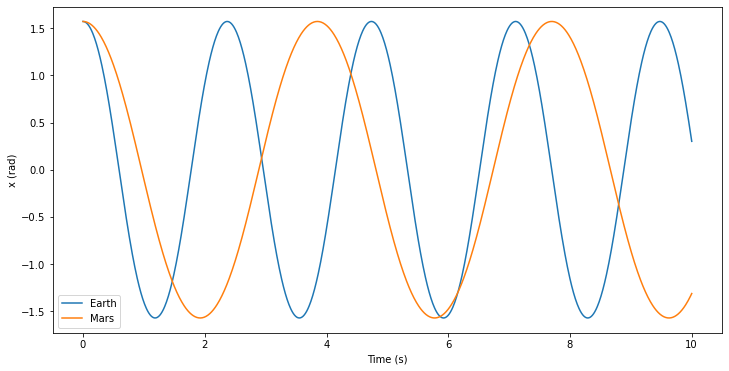
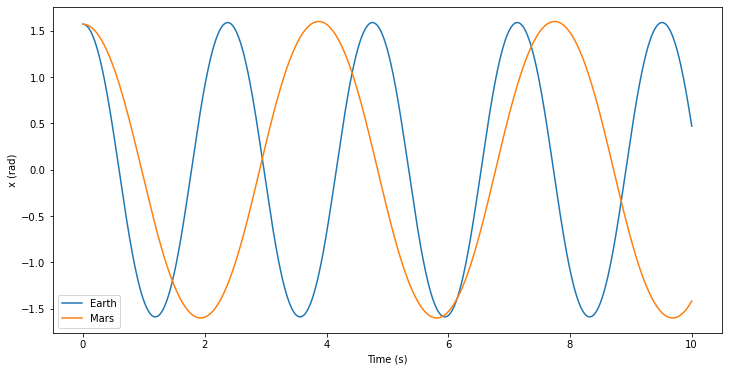
Update Sphinx documentation, commit a70c75dfaa40cd3ea6f748b4b9583d69c33cc509 [skip ci].

diff --git a/searchindex.js b/searchindex.js
@@ -1,1 +1,1 @@
-Search.setIndex({docnames:["advanced_tutorials","basic_tutorials","changelog","index","install","notebooks/Customising the adaptive integrator","notebooks/Dense output","notebooks/Long term stability of Trappist-1","notebooks/Non-autonomous systems","notebooks/ODEs with parameters","notebooks/The adaptive integrator","notebooks/The expression system","tut_taylor_method"],envversion:{"sphinx.domains.c":2,"sphinx.domains.changeset":1,"sphinx.domains.citation":1,"sphinx.domains.cpp":3,"sphinx.domains.index":1,"sphinx.domains.javascript":2,"sphinx.domains.math":2,"sphinx.domains.python":2,"sphinx.domains.rst":2,"sphinx.domains.std":2,sphinx:56},filenames:["advanced_tutorials.rst","basic_tutorials.rst","changelog.rst","index.md","install.rst","notebooks/Customising the adaptive integrator.ipynb","notebooks/Dense output.ipynb","notebooks/Long term stability of Trappist-1.ipynb","notebooks/Non-autonomous systems.ipynb","notebooks/ODEs with parameters.ipynb","notebooks/The adaptive integrator.ipynb","notebooks/The expression system.ipynb","tut_taylor_method.rst"],objects:{},objnames:{},objtypes:{},terms:{"0000000000000000":[5,8,9,10,11],"00000000e":6,"007070225695038143":10,"00750582":10,"00827833":10,"02256041":10,"02325783":10,"024398":10,"024999999997558964":5,"025":[5,10],"025000000000000001":[5,10],"025000000000002819":10,"02681336":10,"02845657":10,"03425164317259":6,"03542229":10,"03597685":10,"043996448369926382":10,"04484178":10,"04519961":10,"04981102":10,"04990399":10,"049999999999999843":10,"050000000000000003":[5,10],"050000000001312876":5,"05003035":10,"07142727":10,"07360369":10,"078442455470687983":10,"08767570e":6,"100":6,"1000":[8,9],"10000000000000000000000000000000008":11,"10000000000000000002":11,"1000000000000001":11,"11031762e":6,"11152037":10,"113":11,"11324639":10,"128":3,"14078016":10,"14188793":10,"14707456e":6,"15635952":10,"15674117":10,"16666667e":6,"200":8,"20207792808238706":10,"2021":3,"20212172864807668":10,"20213323505293765":10,"2021425243240425":10,"21312300047513288":10,"21605277478009474":10,"21813566576411725":10,"2181392923080563":10,"21818982934810385":10,"22063525e":6,"33333333e":6,"345":5,"38888889e":6,"47942554":6,"48015873e":6,"50521084e":6,"56192070e":6,"5707963267948966":9,"60590438e":6,"64716373e":6,"66666667e":6,"75573192e":6,"77947733e":6,"8000000000000007":9,"81145725e":6,"8500000000000001":8,"87758256":6,"98412698e":6,"abstract":11,"boolean":6,"case":[5,6,8,9,10],"class":[5,8,10],"default":[4,5,8,10],"final":[4,5,9],"float":[3,5,11],"function":[2,5,6,10,11,12],"hey\u00f3k\u021fa":3,"import":[4,5,6,7,8,9,10,11],"long":[0,3,5,8,11],"new":4,"public":2,"return":[6,10],"true":[5,6],"try":[5,6,10],"while":[5,8,10],For:[5,9],ODE:[5,6,8,9,10,11,12],ODEs:[1,3,8,10,11,12],One:6,That:[5,6,8,12],The:[1,3,4,5,6,7,8,9,12],There:[4,10],These:[8,10],With:8,__float128:11,abbrevi:8,abil:[3,12],abl:11,about:[4,6],abov:[10,11],abs:6,absolut:[5,6,10],acceler:9,access:[6,9],accomplish:11,accur:6,accuraci:[3,6,12],achiev:11,activ:5,actual:[4,9],adapt:[1,3,12],add:[2,4],addit:[2,4,8,10,11],addition:[4,6,11],advanc:3,after:[4,8,10],again:[6,8,9,10],agenc:3,aggress:3,aim:5,air:8,algebra:[11,12],algorithm:6,all:[5,8,12],alreadi:8,also:[5,9,10,11,12],altern:4,alwai:[6,10],ambigu:8,america:3,amount:[8,10],analysi:8,analyt:6,angl:9,ani:[4,6,11],anoth:[6,10,11],apart:10,appear:[8,12],appli:12,applic:12,appreci:6,approach:5,approxim:12,arbitrari:6,argument:[5,6,8,9,10],ari:11,aris:[5,10],arithmet:10,around:[3,12],arrai:[6,9,10,11],ask:6,assembl:12,ast:11,astronomi:3,author:3,automat:[3,10,11,12],autonom:[1,3],avail:[1,4,11],avoid:8,awar:6,back:[5,10],backward:10,bare:12,base:[3,4],basic:[3,11],batch:3,becaus:[6,8,9,10,11],been:5,befor:6,begin:[6,8,9,10],behaviour:[5,8],being:[9,10,11],belong:8,better:6,billion:3,binder:1,biscani:3,bit:[3,11],bleed:4,bluescarni:4,bob:8,bodi:5,boldsymbol:12,bone:12,boost:4,both:[3,10],branch:[4,5],build:4,built:6,call:[8,10],can:[1,4,5,6,8,9,10,11,12],cancel:5,capabl:[4,10,11],care:12,catastroph:5,caveat:6,chang:[5,8,9,10],changelog:[1,3],channel:4,channel_prior:4,chaotic:8,characterist:12,check:8,choic:12,clamp:10,clang:[4,11],clone:4,clown:3,cmake:4,cmake_build_typ:4,cmake_prefix_path:4,code:[4,5,12],coeffici:[2,6],column:6,com:4,come:[5,6,11],command:4,common:8,compact:12,compact_mod:5,compar:6,compens:5,compil:[3,4,5,11,12],complet:[8,12],complex:[8,11],compon:10,comput:[4,6,10,11,12],conceptu:12,conclud:6,concret:5,condit:[5,6,8,9,10,12],config:4,configur:4,consid:6,consist:5,constant:[9,11],construct:[5,6,8,9,11,12],consult:4,contact:4,contain:[6,9,10,12],content:[3,5],continu:6,contrarian:3,control:5,coordin:[6,10],copi:10,core:4,correctli:1,correspond:5,cos:[6,8,11],cost:[3,5,6],counterpart:11,coupl:6,cours:6,cpu:5,creat:[4,5,8,9,10,11],creation:5,cultur:3,cumbersom:12,current:[1,5,6,10],customis:[1,3],d_output:6,dakota:3,damp:8,dario:3,data:11,date:6,debug:4,decompos:12,deduc:10,deduct:12,defin:[8,11,12],definit:[5,8,10],degrad:5,delta_t:10,dens:[1,2,3,10],denser:10,depend:[3,8,11,12],deriv:[9,11,12],describ:10,desir:10,detail:[4,8],detect:[9,10],determin:11,develop:[1,4],differ:[5,6,8,11],differenti:[3,10,11,12],dimens:[5,8,9,10],directli:[6,9,10],directori:4,displai:8,distanc:11,dizzi:8,doc:2,document:4,doe:6,doing:6,don:9,done:12,doubl:[3,5,10,11],down:[9,12],download:4,drag:8,dynam:8,e_hist:9,each:[1,6],earlier:5,earth:9,easi:10,edg:4,effect:[8,12],effici:10,either:[5,9,10,11],element:5,elementari:[11,12],els:5,emphasis:11,emploi:5,empti:4,enabl:[5,6],end:[2,5,6,8,9,10],endpoint:6,ensur:[5,6,11],epoch:10,epsilon:[5,10],equal:5,equat:[3,10,12],equival:11,err_nf_stat:10,error:[4,6,10,11,12],especi:12,essenti:6,etc:4,euclidean:11,european:3,evalu:[5,6,12],even:5,eventu:6,everyth:5,evolut:[8,9],exact:6,exactli:11,exampl:[5,8,9,10,11],excurs:8,execut:[1,4],exhibit:8,exp:11,expans:12,expect:6,explicit:[8,12],explicitli:8,exponenti:11,expos:2,express:[1,3,8,12],extend:[3,11],extern:8,extra:6,extrem:12,fact:10,fail:1,failur:6,fairli:8,fall:6,far:8,fashion:3,faster:[5,10],featur:[1,3,6],fetch:6,few:[5,8,9,11],fifth:10,figsiz:[6,8,9],figur:[6,8,9],finit:[5,10],first:[5,6,9,10],fix:9,flag:[4,10],fledg:11,focus:8,follow:[4,11],forc:8,forg:4,form:[11,12],format:[10,11],former:10,forth:5,forward:10,frac:12,francesco:3,from:[2,3,5,6,8,9,10,11,12],full:[10,11],fulli:5,futur:11,gap:5,gcc:[4,11],gener:[4,5,6,8,11,12],get:3,git:4,github:4,given:12,global:4,good:[4,8,9],graphic:11,gravit:9,graviti:9,great:3,greater:5,greatli:5,grid:[6,8],guarante:6,had:10,halfwai:6,hand:[5,11,12],har:3,hardwar:11,harmon:6,has:[4,5],have:[5,8,10,12],help:[3,5],here:[5,8,11,12],hesit:4,heyoka:[1,2,4,5,6,7,8,9,10,11,12],heyoka_py_enable_ipo:4,heyoka_py_install_path:4,high:[3,11,12],high_accuraci:5,higher:8,highli:[5,8],highlight:6,hopefulli:10,horner:5,how:[4,5,6,8,9,10],howev:10,http:[4,7],hyperbol:11,icon:1,idea:[4,8],idiom:5,illustr:6,immedi:4,implement:[3,9,12],includ:3,incorrect:6,increas:6,inde:6,index:[9,10],indic:10,ineffici:12,infinit:5,infrastructur:[1,4],initi:[2,5,6,8,9,10,12],input:[6,10],inspect:10,instal:[3,11],instanc:10,instead:[4,5,9,10],institut:3,instruct:[3,4,6],integr:[1,3,6,8,9,12],interact:[1,10],interfac:10,intern:[6,11],interv:10,introduc:8,invent:8,invers:11,invoc:6,invok:[6,10],involv:11,issu:[4,5],its:[6,8,9,10,11],izzo:3,jester:3,just:[3,4,5,6,12],keep:6,kept:4,keyword:[5,8,9],kind:3,known:9,kutta:12,label:9,lakota:3,larg:[5,12],larger:[5,10],last:6,later:[4,9,10,11],latest:[1,4],latter:[9,10],launch:1,ldot:12,lead:[5,8],leaf:11,least:[2,5],left:[4,6,8,9,10,11,12],legend:9,less:5,lesssim:5,let:[5,6,8,9,10],librari:[2,3,4,10],licens:3,lifetim:10,like:4,limit:11,linear:8,link:4,linspac:[6,8,9],linux:4,list:6,littl:8,live:4,llvm:[3,12],load:[9,11],local:4,logarithm:11,logist:11,longdoubl:11,look:[1,4,8],loop:5,low:5,m_hist:9,machin:[3,5,6,10],magnitud:5,mai:1,main:[10,12],maintain:[3,4,5],make:[4,11],make_nbody_si:5,make_var:[5,6,8,9,10,11],manag:[4,10],mandatori:[4,10],mar:9,master:4,match:6,mathemat:11,mathrm:9,matplotlib:[6,8,9],matter:5,max:[3,10],max_delta_t:10,max_h:10,maximis:[5,10],maximum:10,mean:[5,9],memori:5,mention:5,method:[1,3,6,10],might:[1,6,8],min:10,min_h:10,mind:8,minimis:5,minimum:10,mkdir:4,mode:[3,10],modern:3,modul:[4,8],monoton:10,more:[4,5,9,10,11,12],most:1,motion:8,move:[3,9],mpf:11,mpl:3,mpmath:[4,11],msvc:4,much:[10,11],must:[4,10,11],name:8,natur:11,nbodi:5,necessari:[4,12],need:[4,6,10,11,12],never:8,next:[5,6],node:11,non:[1,3,5,10,11],normal:4,normalis:12,north:3,notabl:3,notat:11,note:[6,8,9,10,11],notebook:1,noth:6,notic:10,now:[2,5,6,8,9,10],nstep:10,num:10,number:[5,6,10],numer:[5,9,11,12],numpi:[4,5,6,8,9,10,11],object:[5,8,9,10],obtain:10,ode_si:9,off:4,offer:5,ole:9,onc:4,one:[5,6,9],onli:[1,4,6,11,12],onlin:1,open:4,oper:[10,11,12],opposit:3,opt:5,optim:[5,10,11,12],optimis:[4,5],option:[4,5,10],order:[4,5,6,8,9,10,11,12],ordinari:[3,12],org:7,oscil:6,osx:4,other:[5,6,10,12],our:5,out:10,outcom:10,output:[1,2,3,4,9,10],outsid:6,over:[3,5,6,8],overview:1,own:10,packag:3,page:[1,4],pair:10,par:9,paramet:[1,3,6,10,11],part:6,particl:5,particular:11,particularli:4,pass:[6,8,10],past:6,path:4,peculiar:6,pendulum:[8,9,10],peopl:3,per:5,perform:[3,5,10,11,12],period:8,pick:6,pictur:8,placehold:8,plain:3,planck:3,platform:11,pleas:[1,4],plot:[6,8,9],plt:[6,8,9],plu:[6,10],point:[3,5,6,10,11],polynomi:[5,6,12],popular:12,posit:8,possibl:[9,10,11],power:3,powi:2,practic:5,prec:11,precis:[3,4,5,6,10,11,12],prepend:8,prevent:[5,6],previou:[5,6,11],prime:[6,8,9,10],print:[9,10,11],problem:5,proce:4,process:[5,6,12],processor:11,produc:[6,12],program:5,prone:12,propag:[8,12],propagate_:10,propagate_for:10,propagate_grid:[2,10],propagate_until:[5,8,9,10],properti:6,provid:[1,4,5,6,10,11,12],pybind11:4,pylab:[6,8,9],python:[3,4,12],quadrupl:[4,11],qualit:8,quantifi:5,rad:9,rang:6,rcparam:[6,8,9],react:3,read:[6,8,10],readi:[4,6],reason:10,recent:4,record:6,reduc:5,refer:[1,4,6],regard:6,regular:[10,12],regularli:4,rel:[5,6],relat:10,releas:[1,2,3,4],reli:12,remaind:5,rememb:6,render:5,repeatedli:10,replac:5,report:4,repres:[5,8,9,10,11,12],represent:[11,12],requir:[2,4,10,11,12],reset:[9,10],respect:[5,6,9,10],respons:6,result:[5,6,10],rewritten:12,rich:8,right:[6,8,9,10,11,12],rocket:1,root:11,row:6,rule:[5,12],run:4,run_test_suit:4,rung:12,runtim:[4,5,11],sacr:3,sake:8,same:[5,10],satirist:3,saw:11,scalar:10,screen:[9,10],search:4,second:[6,10],section:[5,8,11],see:[6,7,8,9,10],seem:8,select:10,self:12,semilog:6,sens:5,sensibl:10,sensit:[8,11],sequenc:12,seri:[5,6,12],session:4,set:[3,4,5,6,9,10,11,12],settl:8,setup:4,should:[4,10],show:[5,9],shown:11,side:[11,12],sigmoid:11,sim:[5,6,10],simd:3,similar:12,similarli:10,simpl:[6,10,11,12],simplif:11,simplifi:11,sin:[5,6,8,9,10],sioux:3,site:4,size:[10,12],slight:5,slowli:9,small:[8,12],softwar:11,solut:[5,6,12],solv:12,some:[1,6,11],sourc:3,space:[3,10],speak:3,special:[8,10],specif:[5,8,9,11,12],specifi:[5,6,8,9,10],spice:8,sqrt:11,squar:11,stabil:[0,3],stabl:[1,8],stage:[5,9,11],standard:11,start:[6,9,12],state:[4,5,6,8,9,12],statu:10,steadili:6,step:[6,10,12],step_backward:10,stepper:12,still:6,stop:10,store:[2,6,10],stress:6,strict:4,strive:5,subexpress:12,success:[6,10],successfulli:4,suit:4,sum_:12,summat:5,superflu:8,suppli:11,support:[2,3,4,6,11],sure:4,surfac:9,swing:9,symbol:[5,8,9,10,11,12],syntax:[9,10,11],synthesis:12,sys:[5,8,10],system:[1,3,4,5,6,7,9,10,12],t_0:12,t_1:12,t_grid:[6,8,9],ta_default:5,tailor:12,take:[6,8,10,12],taken:[6,10],target:4,task:12,taylor:[1,2,3,5,6,8,9,10],taylor_adapt:[5,6,8,9,10],taylor_outcom:[6,10],team:4,technic:10,techniqu:[3,5],ten:3,term:[0,3,5,8],test:4,than:[5,10],thank:[1,4],thei:[4,9,10],them:[3,10],thi:[2,4,5,6,8,9,10,12],thing:[6,8],thousand:5,through:6,thu:[1,4,5,6,8,10,12],time:[3,4,5,6,8,9,12],time_limit:10,times10:10,timestep:[2,3,5,6,12],timestepp:5,tol:5,toler:[6,10],toolchain:11,top:1,total:[5,10],tradit:5,trappist:[0,3],tree:[4,11],trigonometr:11,trim:12,troubl:4,truncat:[5,12],tupl:10,tutori:[3,10],two:6,type:[3,4,5,9,11],typic:10,ultim:5,under:3,underli:10,unit:[6,8,9,10],unix:4,unless:10,unlik:12,unpack:4,unreleas:3,unrol:5,until:10,updat:[4,5,10],update_d_output:6,usabl:[5,12],usag:[5,10],use:[1,4,5,6,10],used:[5,6,8,10,12],useful:4,user:[4,5,6,10,11,12],uses:[5,10],using:[4,5,8,9,10,11],usual:[4,8],util:5,valu:[5,6,8,9,10,11,12],vari:[8,11],variabl:[4,5,6,8,9,10,11],varieti:5,variou:[2,4],vector:[5,6,10],veloc:8,veri:[4,5,6,11],verifi:3,version:[1,2,4],vertic:8,via:[3,4,5,6,8,9,10,11,12],wai:[5,10,11],wall:5,want:[4,9],were:[6,10],when:[4,5,8,9,10,11],where:[5,6,9,10,12],wherea:11,which:[4,5,6,8,9,10,11,12],who:3,whose:[6,12],wider:5,wiki:7,wikipedia:7,window:4,within:6,without:4,won:10,word:[5,6],work:[4,10,11],workflow:4,would:10,write:[9,10],write_tc:6,x86:11,x_d_out:6,x_hist:8,xlabel:[6,8,9],yet:1,ylabel:[6,8,9],you:[4,6,9,10],your:4,zero:[3,5,6,8,9,10]},titles:["Advanced tutorials","Basic tutorials","Changelog","heyoka.py","Installation","Customising the adaptive integrator","Dense output","Long term stability of Trappist-1","Non-autonomous systems","ODEs with parameters","The adaptive integrator","The expression system","Taylor\u2019s method"],titleterms:{"2021":2,"long":7,"new":2,ODEs:9,The:[10,11],access:10,accuraci:5,adapt:[5,10],advanc:0,autonom:8,basic:1,chang:2,changelog:2,compact:5,conda:4,construct:10,customis:5,dens:6,depend:4,error:5,express:11,from:4,get:4,grid:10,help:4,heyoka:3,high:5,instal:4,integr:[5,10],limit:10,method:12,mode:5,non:8,output:6,over:10,packag:4,paramet:9,propag:10,singl:10,sourc:4,stabil:7,state:10,system:[8,11],taylor:12,term:7,time:10,timestep:10,toler:5,trappist:7,tutori:[0,1],unreleas:2,verifi:4}})
+Search.setIndex({docnames:["advanced_tutorials","basic_tutorials","changelog","index","install","notebooks/Customising the adaptive integrator","notebooks/Dense output","notebooks/Long term stability of Trappist-1","notebooks/Non-autonomous systems","notebooks/ODEs with parameters","notebooks/The adaptive integrator","notebooks/The expression system","tut_taylor_method"],envversion:{"sphinx.domains.c":2,"sphinx.domains.changeset":1,"sphinx.domains.citation":1,"sphinx.domains.cpp":3,"sphinx.domains.index":1,"sphinx.domains.javascript":2,"sphinx.domains.math":2,"sphinx.domains.python":2,"sphinx.domains.rst":2,"sphinx.domains.std":2,sphinx:56},filenames:["advanced_tutorials.rst","basic_tutorials.rst","changelog.rst","index.md","install.rst","notebooks/Customising the adaptive integrator.ipynb","notebooks/Dense output.ipynb","notebooks/Long term stability of Trappist-1.ipynb","notebooks/Non-autonomous systems.ipynb","notebooks/ODEs with parameters.ipynb","notebooks/The adaptive integrator.ipynb","notebooks/The expression system.ipynb","tut_taylor_method.rst"],objects:{},objnames:{},objtypes:{},terms:{"0000000000000000":[5,8,9,10,11],"00000000e":6,"007070225695038143":10,"00750582":10,"00827833":10,"02256041":10,"02325783":10,"024398":10,"024999999997558964":5,"025":[5,10],"025000000000000001":[5,10],"025000000000002819":10,"02681336":10,"02845657":10,"03425164317259":6,"03542229":10,"03597685":10,"043996448369926382":10,"04484178":10,"04519961":10,"04981102":10,"04990399":10,"049999999999999843":10,"050000000000000003":[5,10],"050000000001312876":5,"05003035":10,"07142727":10,"07360369":10,"078442455470687983":10,"08767570e":6,"100":6,"1000":[8,9],"10000000000000000000000000000000008":11,"10000000000000000002":11,"1000000000000001":11,"11031762e":6,"11152037":10,"113":11,"11324639":10,"128":3,"14078016":10,"14188793":10,"14707456e":6,"15635952":10,"15674117":10,"16666667e":6,"200":8,"20207792808238706":10,"2021":3,"20212172864807668":10,"20213323505293765":10,"2021425243240425":10,"21312300047513288":10,"21605277478009474":10,"21813566576411725":10,"2181392923080563":10,"21818982934810385":10,"22063525e":6,"33333333e":6,"351":5,"352":5,"38888889e":6,"47942554":6,"48015873e":6,"50521084e":6,"56192070e":6,"5707963267948966":9,"60590438e":6,"64716373e":6,"66666667e":6,"75573192e":6,"77947733e":6,"8000000000000007":9,"81145725e":6,"8500000000000001":8,"87758256":6,"98412698e":6,"abstract":11,"boolean":6,"case":[5,6,8,9,10],"class":[5,8,10],"default":[4,5,8,10],"final":[4,5,9],"float":[3,5,11],"function":[2,5,6,10,11,12],"hey\u00f3k\u021fa":3,"import":[4,5,6,7,8,9,10,11],"long":[0,3,5,8,11],"new":4,"public":2,"return":[6,10],"true":[5,6],"try":[5,6,10],"while":[5,8,10],For:[5,9],ODE:[5,6,8,9,10,11,12],ODEs:[1,3,8,10,11,12],One:6,That:[5,6,8,12],The:[1,3,4,5,6,7,8,9,12],There:[4,10],These:[8,10],With:8,__float128:11,abbrevi:8,abil:[3,12],abl:11,about:[4,6],abov:[10,11],abs:6,absolut:[5,6,10],acceler:9,access:[6,9],accomplish:11,accur:6,accuraci:[3,6,12],achiev:11,activ:5,actual:[4,9],adapt:[1,3,12],add:[2,4],addit:[2,4,8,10,11],addition:[4,6,11],advanc:3,after:[4,8,10],again:[6,8,9,10],agenc:3,aggress:3,aim:5,air:8,algebra:[11,12],algorithm:6,all:[5,8,12],alreadi:8,also:[5,9,10,11,12],altern:4,alwai:[6,10],ambigu:8,america:3,amount:[8,10],analysi:8,analyt:6,angl:9,ani:[4,6,11],anoth:[6,10,11],apart:10,appear:[8,12],appli:12,applic:12,appreci:6,approach:5,approxim:12,arbitrari:6,argument:[5,6,8,9,10],ari:11,aris:[5,10],arithmet:10,around:[3,12],arrai:[6,9,10,11],ask:6,assembl:12,ast:11,astronomi:3,author:3,automat:[3,10,11,12],autonom:[1,3],avail:[1,4,11],avoid:8,awar:6,back:[5,10],backward:10,bare:12,base:[3,4],basic:[3,11],batch:3,becaus:[6,8,9,10,11],been:5,befor:6,begin:[6,8,9,10],behaviour:[5,8],being:[9,10,11],belong:8,better:6,billion:3,binder:1,biscani:3,bit:[3,11],bleed:4,bluescarni:4,bob:8,bodi:5,boldsymbol:12,bone:12,boost:4,both:[3,10],branch:[4,5],build:4,built:6,call:[8,10],can:[1,4,5,6,8,9,10,11,12],cancel:5,capabl:[4,10,11],care:12,catastroph:5,caveat:6,chang:[5,8,9,10],changelog:[1,3],channel:4,channel_prior:4,chaotic:8,characterist:12,check:8,choic:12,clamp:10,clang:[4,11],clone:4,clown:3,cmake:4,cmake_build_typ:4,cmake_prefix_path:4,code:[4,5,12],coeffici:[2,6],column:6,com:4,come:[5,6,11],command:4,common:8,compact:12,compact_mod:5,compar:6,compens:5,compil:[3,4,5,11,12],complet:[8,12],complex:[8,11],compon:10,comput:[4,6,10,11,12],conceptu:12,conclud:6,concret:5,condit:[5,6,8,9,10,12],config:4,configur:4,consid:6,consist:5,constant:[9,11],construct:[5,6,8,9,11,12],consult:4,contact:4,contain:[6,9,10,12],content:[3,5],continu:6,contrarian:3,control:5,coordin:[6,10],copi:10,core:4,correctli:1,correspond:5,cos:[6,8,11],cost:[3,5,6],counterpart:11,coupl:6,cours:6,cpu:5,creat:[4,5,8,9,10,11],creation:5,cultur:3,cumbersom:12,current:[1,5,6,10],customis:[1,3],d_output:6,dakota:3,damp:8,dario:3,data:11,date:6,debug:4,decompos:12,deduc:10,deduct:12,defin:[8,11,12],definit:[5,8,10],degrad:5,delta_t:10,dens:[1,2,3,10],denser:10,depend:[3,8,11,12],deriv:[9,11,12],describ:10,desir:10,detail:[4,8],detect:[9,10],determin:11,develop:[1,4],differ:[5,6,8,11],differenti:[3,10,11,12],dimens:[5,8,9,10],directli:[6,9,10],directori:4,displai:8,distanc:11,dizzi:8,doc:2,document:4,doe:6,doing:6,don:9,done:12,doubl:[3,5,10,11],down:[9,12],download:4,drag:8,dynam:8,e_hist:9,each:[1,6],earlier:5,earth:9,easi:10,edg:4,effect:[8,12],effici:10,either:[5,9,10,11],element:5,elementari:[11,12],els:5,emphasis:11,emploi:5,empti:4,enabl:[5,6],end:[2,5,6,8,9,10],endpoint:6,ensur:[5,6,11],epoch:10,epsilon:[5,10],equal:5,equat:[3,10,12],equival:11,err_nf_stat:10,error:[4,6,10,11,12],especi:12,essenti:6,etc:4,euclidean:11,european:3,evalu:[5,6,12],even:5,eventu:6,everyth:5,evolut:[8,9],exact:6,exactli:11,exampl:[5,8,9,10,11],excurs:8,execut:[1,4],exhibit:8,exp:11,expans:12,expect:6,explicit:[8,12],explicitli:8,exponenti:11,expos:2,express:[1,3,8,12],extend:[3,11],extern:8,extra:6,extrem:12,fact:10,fail:1,failur:6,fairli:8,fall:6,far:8,fashion:3,faster:[5,10],featur:[1,3,6],fetch:6,few:[5,8,9,11],fifth:10,figsiz:[6,8,9],figur:[6,8,9],finit:[5,10],first:[5,6,9,10],fix:9,flag:[4,10],fledg:11,focus:8,follow:[4,11],forc:8,forg:4,form:[11,12],format:[10,11],former:10,forth:5,forward:10,frac:12,francesco:3,from:[2,3,5,6,8,9,10,11,12],full:[10,11],fulli:5,futur:11,gap:5,gcc:[4,11],gener:[4,5,6,8,11,12],get:3,git:4,github:4,given:12,global:4,good:[4,8,9],graphic:11,gravit:9,graviti:9,great:3,greater:5,greatli:5,grid:[6,8],guarante:6,had:10,halfwai:6,hand:[5,11,12],har:3,hardwar:11,harmon:6,has:[4,5],have:[5,8,10,12],help:[3,5],here:[5,8,11,12],hesit:4,heyoka:[1,2,4,5,6,7,8,9,10,11,12],heyoka_py_enable_ipo:4,heyoka_py_install_path:4,high:[3,11,12],high_accuraci:5,higher:8,highli:[5,8],highlight:6,hopefulli:10,horner:5,how:[4,5,6,8,9,10],howev:10,http:[4,7],hyperbol:11,icon:1,idea:[4,8],idiom:5,illustr:6,immedi:4,implement:[3,9,12],includ:3,incorrect:6,increas:6,inde:6,index:[9,10],indic:10,ineffici:12,infinit:5,infrastructur:[1,4],initi:[2,5,6,8,9,10,12],input:[6,10],inspect:10,instal:[3,11],instanc:10,instead:[4,5,9,10],institut:3,instruct:[3,4,6],integr:[1,3,6,8,9,12],interact:[1,10],interfac:10,intern:[6,11],interv:10,introduc:8,invent:8,invers:11,invoc:6,invok:[6,10],involv:11,issu:[4,5],its:[6,8,9,10,11],izzo:3,jester:3,just:[3,4,5,6,12],keep:6,kept:4,keyword:[5,8,9],kind:3,known:9,kutta:12,label:9,lakota:3,larg:[5,12],larger:[5,10],last:6,later:[4,9,10,11],latest:[1,4],latter:[9,10],launch:1,ldot:12,lead:[5,8],leaf:11,least:[2,5],left:[4,6,8,9,10,11,12],legend:9,less:5,lesssim:5,let:[5,6,8,9,10],librari:[2,3,4,10],licens:3,lifetim:10,like:4,limit:11,linear:8,link:4,linspac:[6,8,9],linux:4,list:6,littl:8,live:4,llvm:[3,12],load:[9,11],local:4,logarithm:11,logist:11,longdoubl:11,look:[1,4,8],loop:5,low:5,m_hist:9,machin:[3,5,6,10],magnitud:5,mai:1,main:[10,12],maintain:[3,4,5],make:[4,11],make_nbody_si:5,make_var:[5,6,8,9,10,11],manag:[4,10],mandatori:[4,10],mar:9,master:4,match:6,mathemat:11,mathrm:9,matplotlib:[6,8,9],matter:5,max:[3,10],max_delta_t:10,max_h:10,maximis:[5,10],maximum:10,mean:[5,9],memori:5,mention:5,method:[1,3,6,10],might:[1,6,8],min:10,min_h:10,mind:8,minimis:5,minimum:10,mkdir:4,mode:[3,10],modern:3,modul:[4,8],monoton:10,more:[4,5,9,10,11,12],most:1,motion:8,move:[3,9],mpf:11,mpl:3,mpmath:[4,11],msvc:4,much:[10,11],must:[4,10,11],name:8,natur:11,nbodi:5,necessari:[4,12],need:[4,6,10,11,12],never:8,next:[5,6],node:11,non:[1,3,5,10,11],normal:4,normalis:12,north:3,notabl:3,notat:11,note:[6,8,9,10,11],notebook:1,noth:6,notic:10,now:[2,5,6,8,9,10],nstep:10,num:10,number:[5,6,10],numer:[5,9,11,12],numpi:[4,5,6,8,9,10,11],object:[5,8,9,10],obtain:10,ode_si:9,off:4,offer:5,ole:9,onc:4,one:[5,6,9],onli:[1,4,6,11,12],onlin:1,open:4,oper:[10,11,12],opposit:3,opt:5,optim:[5,10,11,12],optimis:[4,5],option:[4,5,10],order:[4,5,6,8,9,10,11,12],ordinari:[3,12],org:7,oscil:6,osx:4,other:[5,6,10,12],our:5,out:10,outcom:10,output:[1,2,3,4,9,10],outsid:6,over:[3,5,6,8],overview:1,own:10,packag:3,page:[1,4],pair:10,par:9,paramet:[1,3,6,10,11],part:6,particl:5,particular:11,particularli:4,pass:[6,8,10],past:6,path:4,peculiar:6,pendulum:[8,9,10],peopl:3,per:5,perform:[3,5,10,11,12],period:8,pick:6,pictur:8,placehold:8,plain:3,planck:3,platform:11,pleas:[1,4],plot:[6,8,9],plt:[6,8,9],plu:[6,10],point:[3,5,6,10,11],polynomi:[5,6,12],popular:12,posit:8,possibl:[9,10,11],power:3,powi:2,practic:5,prec:11,precis:[3,4,5,6,10,11,12],prepend:8,prevent:[5,6],previou:[5,6,11],prime:[6,8,9,10],print:[9,10,11],problem:5,proce:4,process:[5,6,12],processor:11,produc:[6,12],program:5,prone:12,propag:[8,12],propagate_:10,propagate_for:10,propagate_grid:[2,8,9,10],propagate_until:[5,10],properti:6,provid:[1,4,5,6,10,11,12],pybind11:4,pylab:[6,8,9],python:[3,4,12],quadrupl:[4,11],qualit:8,quantifi:5,rad:9,rang:6,rcparam:[6,8,9],react:3,read:[6,8,10],readi:[4,6],reason:10,recent:4,record:6,reduc:5,refer:[1,4,6],regard:6,regular:[10,12],regularli:4,rel:[5,6],relat:10,releas:[1,2,3,4],reli:12,remaind:5,rememb:6,render:5,repeatedli:10,replac:5,report:4,repres:[5,8,9,10,11,12],represent:[11,12],requir:[2,4,10,11,12],reset:[9,10],respect:[5,6,9,10],respons:6,result:[5,6,10],rewritten:12,rich:8,right:[6,8,9,10,11,12],rocket:1,root:11,row:6,rule:[5,12],run:4,run_test_suit:4,rung:12,runtim:[4,5,11],sacr:3,sake:8,same:[5,10],satirist:3,saw:11,scalar:10,screen:[9,10],search:4,second:[6,10],section:[5,8,11],see:[6,7,8,9,10],seem:8,select:10,self:12,semilog:6,sens:5,sensibl:10,sensit:[8,11],sequenc:12,seri:[5,6,12],session:4,set:[3,4,5,6,9,10,11,12],settl:8,setup:4,should:[4,10],show:[5,9],shown:11,side:[11,12],sigmoid:11,sim:[5,6,10],simd:3,similar:12,similarli:10,simpl:[6,10,11,12],simplif:11,simplifi:11,sin:[5,6,8,9,10],sioux:3,site:4,size:[10,12],slight:5,slowli:9,small:[8,12],softwar:11,solut:[5,6,12],solv:12,some:[1,6,11],sourc:3,space:[3,10],speak:3,special:[8,10],specif:[5,8,9,11,12],specifi:[5,6,8,9,10],spice:8,sqrt:11,squar:11,stabil:[0,3],stabl:[1,8],stage:[5,9,11],standard:11,start:[6,9,12],state:[4,5,6,8,9,12],statu:10,steadili:6,step:[6,10,12],step_backward:10,stepper:12,still:6,stop:10,store:[2,6,10],stress:6,strict:4,strive:5,subexpress:12,success:[6,10],successfulli:4,suit:4,sum_:12,summat:5,superflu:8,suppli:11,support:[2,3,4,6,11],sure:4,surfac:9,swing:9,symbol:[5,8,9,10,11,12],syntax:[9,10,11],synthesis:12,sys:[5,8,10],system:[1,3,4,5,6,7,9,10,12],t_0:12,t_1:12,t_grid:[6,8,9],ta_default:5,tailor:12,take:[6,8,10,12],taken:[6,10],target:4,task:12,taylor:[1,2,3,5,6,8,9,10],taylor_adapt:[5,6,8,9,10],taylor_outcom:[6,10],team:4,technic:10,techniqu:[3,5],ten:3,term:[0,3,5,8],test:4,than:[5,10],thank:[1,4],thei:[4,9,10],them:[3,10],thi:[2,4,5,6,8,9,10,12],thing:[6,8],thousand:5,through:6,thu:[1,4,5,6,8,10,12],time:[3,4,5,6,8,9,12],time_limit:10,times10:10,timestep:[2,3,5,6,12],timestepp:5,tol:5,toler:[6,10],toolchain:11,top:1,total:[5,10],tradit:5,trappist:[0,3],tree:[4,11],trigonometr:11,trim:12,troubl:4,truncat:[5,12],tupl:10,tutori:[3,10],two:6,type:[3,4,5,9,11],typic:10,ultim:5,under:3,underli:10,unit:[6,8,9,10],unix:4,unless:10,unlik:12,unpack:4,unreleas:3,unrol:5,until:10,updat:[4,5,10],update_d_output:6,usabl:[5,12],usag:[5,10],use:[1,4,5,6,10],used:[5,6,8,10,12],useful:4,user:[4,5,6,10,11,12],uses:[5,10],using:[4,5,8,9,10,11],usual:[4,8],util:5,valu:[5,6,8,9,10,11,12],vari:[8,11],variabl:[4,5,6,8,9,10,11],varieti:5,variou:[2,4],vector:[5,6,10],veloc:8,veri:[4,5,6,11],verifi:3,version:[1,2,4],vertic:8,via:[3,4,5,6,8,9,10,11,12],wai:[5,10,11],wall:5,want:[4,9],were:[6,10],when:[4,5,8,9,10,11],where:[5,6,9,10,12],wherea:11,which:[4,5,6,8,9,10,11,12],who:3,whose:[6,12],wider:5,wiki:7,wikipedia:7,window:4,within:6,without:4,won:10,word:[5,6],work:[4,10,11],workflow:4,would:10,write:[9,10],write_tc:6,x86:11,x_d_out:6,x_hist:8,xlabel:[6,8,9],yet:1,ylabel:[6,8,9],you:[4,6,9,10],your:4,zero:[3,5,6,8,9,10]},titles:["Advanced tutorials","Basic tutorials","Changelog","heyoka.py","Installation","Customising the adaptive integrator","Dense output","Long term stability of Trappist-1","Non-autonomous systems","ODEs with parameters","The adaptive integrator","The expression system","Taylor\u2019s method"],titleterms:{"2021":2,"long":7,"new":2,ODEs:9,The:[10,11],access:10,accuraci:5,adapt:[5,10],advanc:0,autonom:8,basic:1,chang:2,changelog:2,compact:5,conda:4,construct:10,customis:5,dens:6,depend:4,error:5,express:11,from:4,get:4,grid:10,help:4,heyoka:3,high:5,instal:4,integr:[5,10],limit:10,method:12,mode:5,non:8,output:6,over:10,packag:4,paramet:9,propag:10,singl:10,sourc:4,stabil:7,state:10,system:[8,11],taylor:12,term:7,time:10,timestep:10,toler:5,trappist:7,tutori:[0,1],unreleas:2,verifi:4}})

diff --git a/notebooks/ODEs with parameters.html b/notebooks/ODEs with parameters.html
@@ -355,7 +355,7 @@ Parameters  : [9.8000000000000007]
 <div class="cell docutils container">
 <div class="cell_input docutils container">
 <div class="highlight-ipython3 notranslate"><div class="highlight"><pre><span></span><span class="n">t_grid</span> <span class="o">=</span> <span class="n">np</span><span class="o">.</span><span class="n">linspace</span><span class="p">(</span><span class="mi">0</span><span class="p">,</span><span class="mi">10</span><span class="p">,</span><span class="mi">1000</span><span class="p">)</span>
-<span class="n">e_hist</span> <span class="o">=</span> <span class="p">[(</span><span class="n">ta</span><span class="o">.</span><span class="n">propagate_until</span><span class="p">(</span><span class="n">_</span><span class="p">),</span> <span class="n">ta</span><span class="o">.</span><span class="n">state</span><span class="p">[</span><span class="mi">0</span><span class="p">])[</span><span class="mi">1</span><span class="p">]</span> <span class="k">for</span> <span class="n">_</span> <span class="ow">in</span> <span class="n">t_grid</span><span class="p">]</span>
+<span class="n">e_hist</span> <span class="o">=</span> <span class="n">ta</span><span class="o">.</span><span class="n">propagate_grid</span><span class="p">(</span><span class="n">t_grid</span><span class="p">)[</span><span class="mi">4</span><span class="p">][:,</span><span class="mi">0</span><span class="p">]</span>
 </pre></div>
 </div>
 </div>
@@ -371,7 +371,7 @@ Parameters  : [9.8000000000000007]
 <span class="n">ta</span><span class="o">.</span><span class="n">pars</span><span class="p">[</span><span class="mi">0</span><span class="p">]</span> <span class="o">=</span> <span class="mf">3.71</span>
 
 <span class="c1"># Integrate again.</span>
-<span class="n">m_hist</span> <span class="o">=</span> <span class="p">[(</span><span class="n">ta</span><span class="o">.</span><span class="n">propagate_until</span><span class="p">(</span><span class="n">_</span><span class="p">),</span> <span class="n">ta</span><span class="o">.</span><span class="n">state</span><span class="p">[</span><span class="mi">0</span><span class="p">])[</span><span class="mi">1</span><span class="p">]</span> <span class="k">for</span> <span class="n">_</span> <span class="ow">in</span> <span class="n">t_grid</span><span class="p">]</span>
+<span class="n">m_hist</span> <span class="o">=</span> <span class="n">ta</span><span class="o">.</span><span class="n">propagate_grid</span><span class="p">(</span><span class="n">t_grid</span><span class="p">)[</span><span class="mi">4</span><span class="p">][:,</span><span class="mi">0</span><span class="p">]</span>
 </pre></div>
 </div>
 </div>

diff --git a/notebooks/Non-autonomous systems.html b/notebooks/Non-autonomous systems.html
@@ -337,7 +337,7 @@ varies in time:</p>
 <span class="n">t_grid</span> <span class="o">=</span> <span class="n">np</span><span class="o">.</span><span class="n">linspace</span><span class="p">(</span><span class="mi">0</span><span class="p">,</span> <span class="mi">200</span><span class="p">,</span> <span class="mi">1000</span><span class="p">)</span>
 
 <span class="c1"># Propagate over the time grid.</span>
-<span class="n">x_hist</span> <span class="o">=</span> <span class="p">[(</span><span class="n">ta</span><span class="o">.</span><span class="n">propagate_until</span><span class="p">(</span><span class="n">_</span><span class="p">),</span> <span class="n">ta</span><span class="o">.</span><span class="n">state</span><span class="p">[</span><span class="mi">0</span><span class="p">])[</span><span class="mi">1</span><span class="p">]</span> <span class="k">for</span> <span class="n">_</span> <span class="ow">in</span> <span class="n">t_grid</span><span class="p">]</span>
+<span class="n">x_hist</span> <span class="o">=</span> <span class="n">ta</span><span class="o">.</span><span class="n">propagate_grid</span><span class="p">(</span><span class="n">t_grid</span><span class="p">)[</span><span class="mi">4</span><span class="p">][:,</span><span class="mi">0</span><span class="p">]</span>
 
 <span class="c1"># Display the time evolution for the x variable.</span>
 <span class="n">plt</span><span class="o">.</span><span class="n">plot</span><span class="p">(</span><span class="n">t_grid</span><span class="p">,</span> <span class="n">x_hist</span><span class="p">)</span>

diff --git a/notebooks/Customising the adaptive integrator.html b/notebooks/Customising the adaptive integrator.html
@@ -405,8 +405,8 @@ code generation mode:</p>
 </div>
 </div>
 <div class="cell_output docutils container">
-<div class="output stream highlight-myst-ansi notranslate"><div class="highlight"><pre><span></span>CPU times: user 6.38 s, sys: 68.2 ms, total: 6.45 s
-Wall time: 6.45 s
+<div class="output stream highlight-myst-ansi notranslate"><div class="highlight"><pre><span></span>CPU times: user 5.96 s, sys: 46.1 ms, total: 6 s
+Wall time: 6.01 s
 </pre></div>
 </div>
 </div>
@@ -421,8 +421,8 @@ keyword argument):</p>
 </div>
 </div>
 <div class="cell_output docutils container">
-<div class="output stream highlight-myst-ansi notranslate"><div class="highlight"><pre><span></span>CPU times: user 345 ms, sys: 0 ns, total: 345 ms
-Wall time: 345 ms
+<div class="output stream highlight-myst-ansi notranslate"><div class="highlight"><pre><span></span>CPU times: user 351 ms, sys: 0 ns, total: 351 ms
+Wall time: 352 ms
 </pre></div>
 </div>
 </div>
